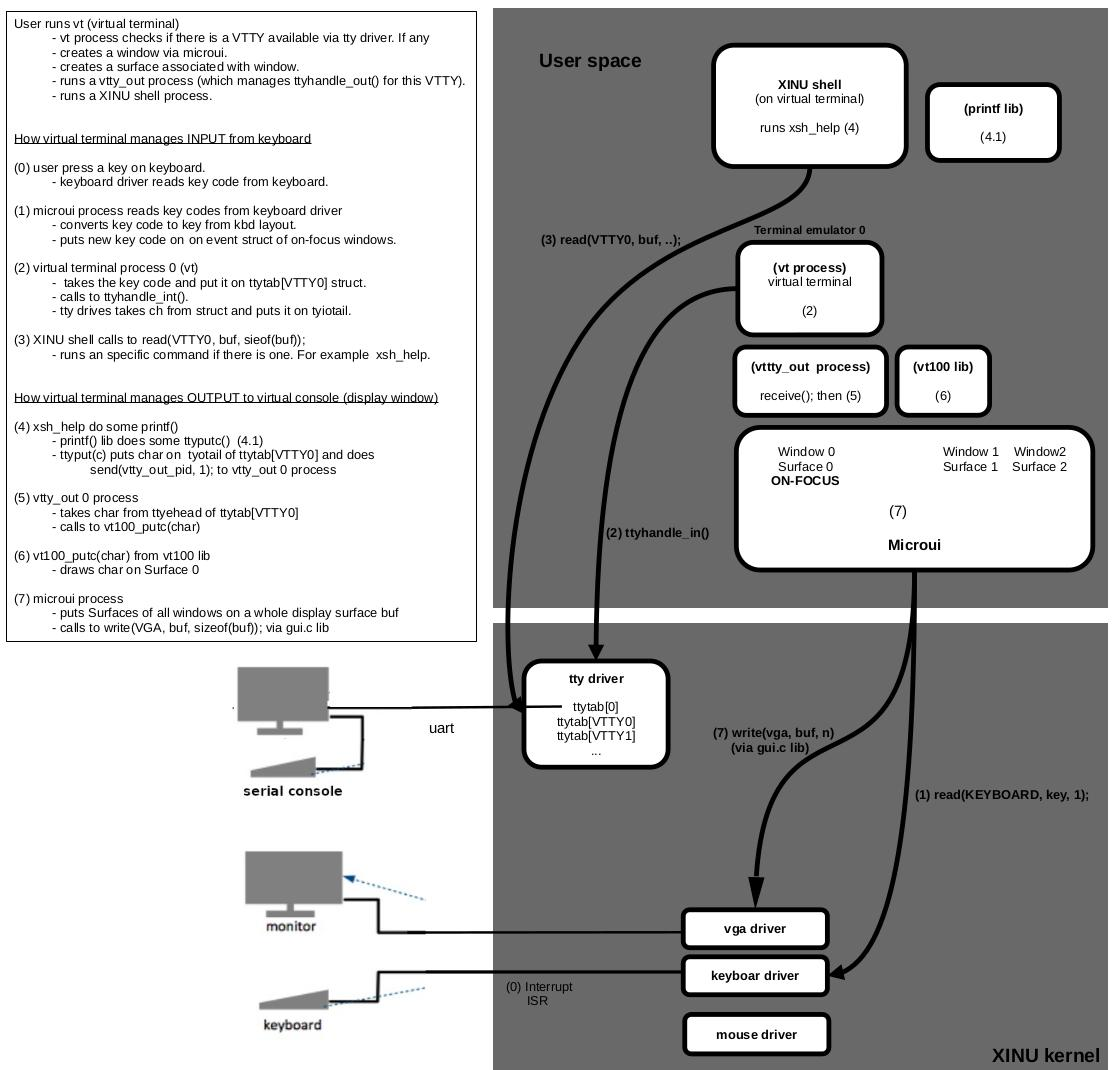
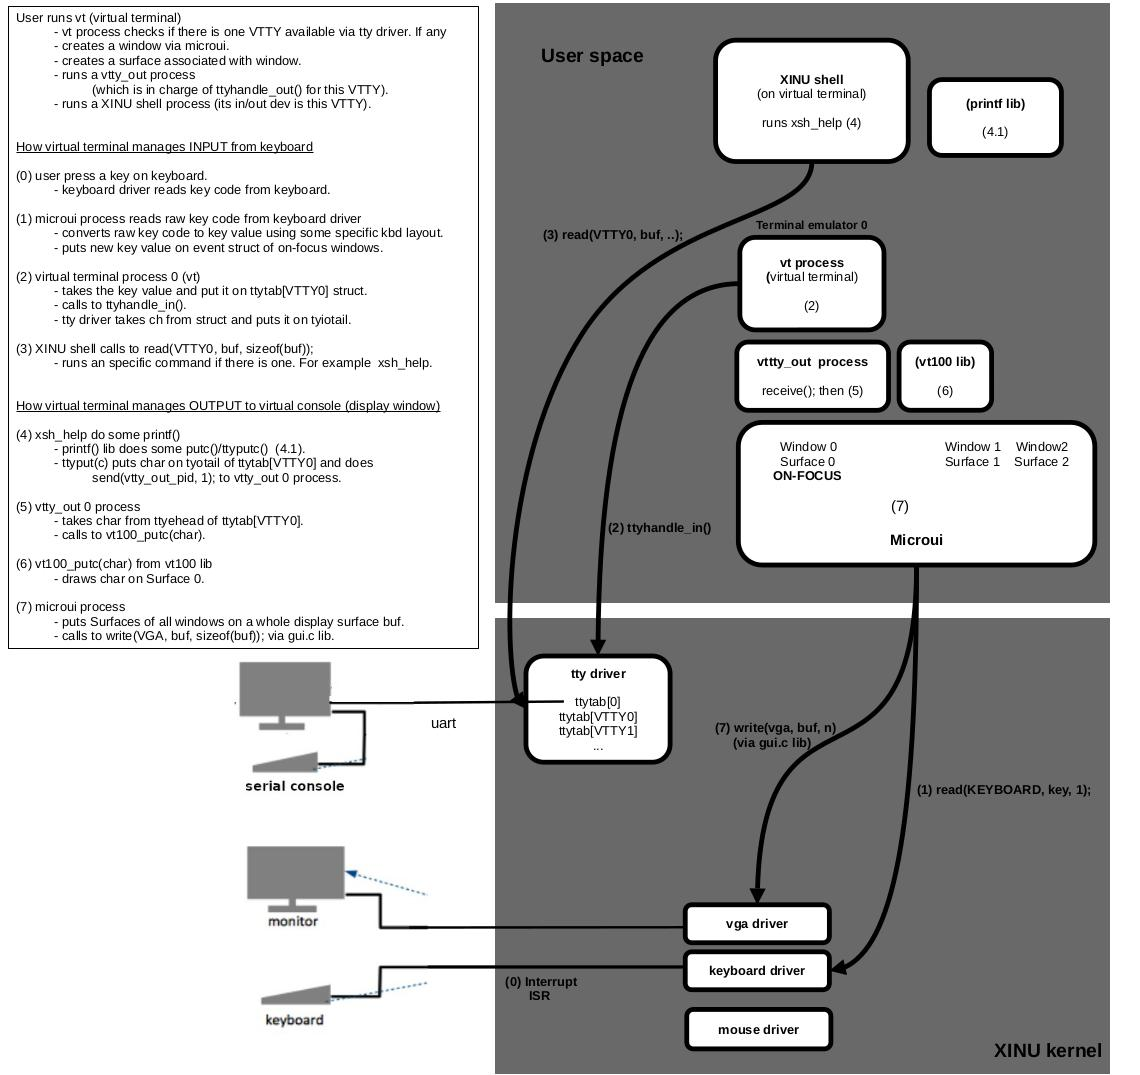
vt figure

Changed region(s): [[0.0, 0.0, 1.0, 1.0]]

diff --git a/web/vt_figure.html b/web/vt_figure.html
@@ -9,13 +9,13 @@
 <pre>
 <code>
 
-
 User runs vt (virtual terminal)
-	- vt process checks if there is a VTTY available via tty driver. If any
+	- vt process checks if there is one VTTY available via tty driver. If any
 	- creates a window via microui. 
 	- creates a surface associated with window.
-	- runs a vtty_out process (which manages ttyhandle_out() for this VTTY).
-	- runs a XINU shell process.
+	- runs a vtty_out process 
+		(which is in charge of ttyhandle_out() for this VTTY).
+	- runs a XINU shell process (its in/out dev is this VTTY).
 
 
 How virtual terminal manages INPUT from keyboard
@@ -23,35 +23,35 @@ How virtual terminal manages INPUT from keyboard
 (0) user press a key on keyboard. 
 	- keyboard driver reads key code from keyboard.
 
-(1) microui process reads key codes from keyboard driver
-	- converts key code to key from kbd layout.
-	- puts new key code on on event struct of on-focus windows.
+(1) microui process reads raw key code from keyboard driver
+	- converts raw key code to key value using some specific kbd layout.
+	- puts new key value on event struct of on-focus windows.
 
 (2) virtual terminal process 0 (vt)
-	-  takes the key code and put it on ttytab[VTTY0] struct.
-	- calls to ttyhandle_int().
-	- tty drives takes ch from struct and puts it on tyiotail.
+	- takes the key value and put it on ttytab[VTTY0] struct.
+	- calls to ttyhandle_in().
+	- tty driver takes ch from struct and puts it on tyiotail.
 
-(3) XINU shell calls to read(VTTY0, buf, sieof(buf));
+(3) XINU shell calls to read(VTTY0, buf, sizeof(buf));
 	- runs an specific command if there is one. For example  xsh_help.
 
 
 How virtual terminal manages OUTPUT to virtual console (display window)
 
 (4) xsh_help do some printf()
-	- printf() lib does some ttyputc()  (4.1)
-	- ttyput(c) puts char on  tyotail of ttytab[VTTY0] and does 
-		send(vtty_out_pid, 1); to vtty_out 0 process
+	- printf() lib does some putc()/ttyputc()  (4.1).
+	- ttyput(c) puts char on tyotail of ttytab[VTTY0] and does
+		send(vtty_out_pid, 1); to vtty_out 0 process.
 
 (5) vtty_out 0 process
-	- takes char from ttyehead of ttytab[VTTY0]
-	- calls to vt100_putc(char)
+	- takes char from ttyehead of ttytab[VTTY0].
+	- calls to vt100_putc(char).
 
 (6) vt100_putc(char) from vt100 lib
-	- draws char on Surface 0
+	- draws char on Surface 0.
 
 (7) microui process 
-	- puts Surfaces of all windows on a whole display surface buf
-	- calls to write(VGA, buf, sizeof(buf)); via gui.c lib
+	- puts Surfaces of all windows on a whole display surface buf.
+	- calls to write(VGA, buf, sizeof(buf)); via gui.c lib.
 </code>
 </pre>
